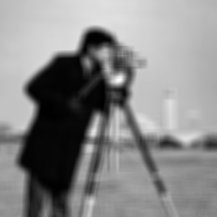
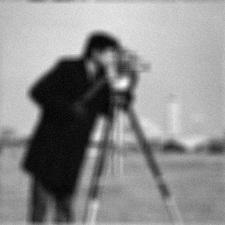
Correction params

diff --git a/test.py b/test.py
@@ -7,36 +7,54 @@ import numpy as np
 import torch
 
 
-physics = ULAIterator.get_physics(sigma_noise=1/255, device='cpu')
+denoiser_param = 2/255
+sigma_destruction = 3/255
+physics = ULAIterator.get_physics(sigma_noise=sigma_destruction, device='cpu')
 L=1
-denoiser_param = (5/255)**2
-Ly = 255**2 * ULAIterator.power_iteration(physics, num_iterations=10)**2
-delta = 0.5/(L/denoiser_param + Ly)
+Ly = ULAIterator.power_iteration(physics, num_iterations=100)/sigma_destruction**2
+# delta = 0.9/(L/denoiser_param + Ly)
+delta = 0.01*sigma_destruction**2
 
 algo_params_default = {
  "alpha": 1.0,
  "denoiser_param": denoiser_param,
- "sigma_destruction": 1.5,
+ "sigma_destruction": sigma_destruction,
  "delta": delta,
  "physics": physics
 }
 
 ula = ULAIterator(algo_params_default)
 
-img = np.array(Image.open('data/camera_man.jpg').convert('L')).astype(np.float32)
+img = np.array(Image.open('data/camera_man.jpg').convert('L')).astype(np.float32) / 255.0
 img = torch.from_numpy(img).unsqueeze(0).unsqueeze(0)
 img_blurred = physics(img)
 
-# img_for_plot = img_blurred.squeeze().cpu().numpy()
-# plt.imsave('camera_man_blurred.png', img_for_plot, cmap='gray')
+img_for_plot2 = img_blurred.squeeze().cpu().numpy()
+plt.imsave('camera_man_blurred.png', img_for_plot2, cmap='gray')
+
+burn_in = 500
+n_iter = 1000
 
 img_temp = img_blurred.clone()
-for i in range(200):
- print(f"Iteration {i+1}")
- img_temp = ula.step(img_temp, img_blurred)
 
+mean_img = torch.zeros_like(img_temp)
+count = 0
 
-img_for_plot = img_temp.squeeze().cpu().numpy()
+for i in range(n_iter):
+
+    if i % 10 == 0:
+        print(f"Iteration {i}")
+
+    img_temp = ula.step(img_temp, img_blurred)
+
+    # After burn-in only
+    if i >= burn_in:
+        mean_img += img_temp
+        count += 1
+
+mean_img /= count
+
+img_for_plot = mean_img.squeeze().cpu().numpy()
 plt.imsave('camera_man_unblurred.png', img_for_plot, cmap='gray')
 
 

diff --git a/src/ULA_class.py b/src/ULA_class.py
@@ -13,7 +13,7 @@ class ULAIterator():
         
         self.dncnn = dinv.models.DnCNN(in_channels=1,
         out_channels=1,
-        pretrained="download")
+        pretrained="download_lipschitz")
         
         missing_params = []
 
@@ -69,7 +69,7 @@ class ULAIterator():
         return b_k
 
     def likelihood_grad(self, X, y):
-        grad = (1/self.sigma_destruction**2) *  self.physics.A_adjoint(self.physics.A(X) - y)
+        grad = -(1/2*self.sigma_destruction**2) *  self.physics.A_adjoint(self.physics.A(X) - y)
         return grad
     
     def clip(self, X):
@@ -86,7 +86,7 @@ class ULAIterator():
         # Likelihood gradient
         grad_likelihood = self.likelihood_grad(X, y)
         
-        x_t1 = self.delta * grad_likelihood + self.alpha * self.delta/((5/255)**2) * (D - X) + np.sqrt(2* self.delta) * Z 
+        x_t1 = self.delta * grad_likelihood + self.alpha * self.delta/(self.denoiser_param) * (D - X) + np.sqrt(2* self.delta) * Z 
         
         final = self.clip(X + x_t1)
         
